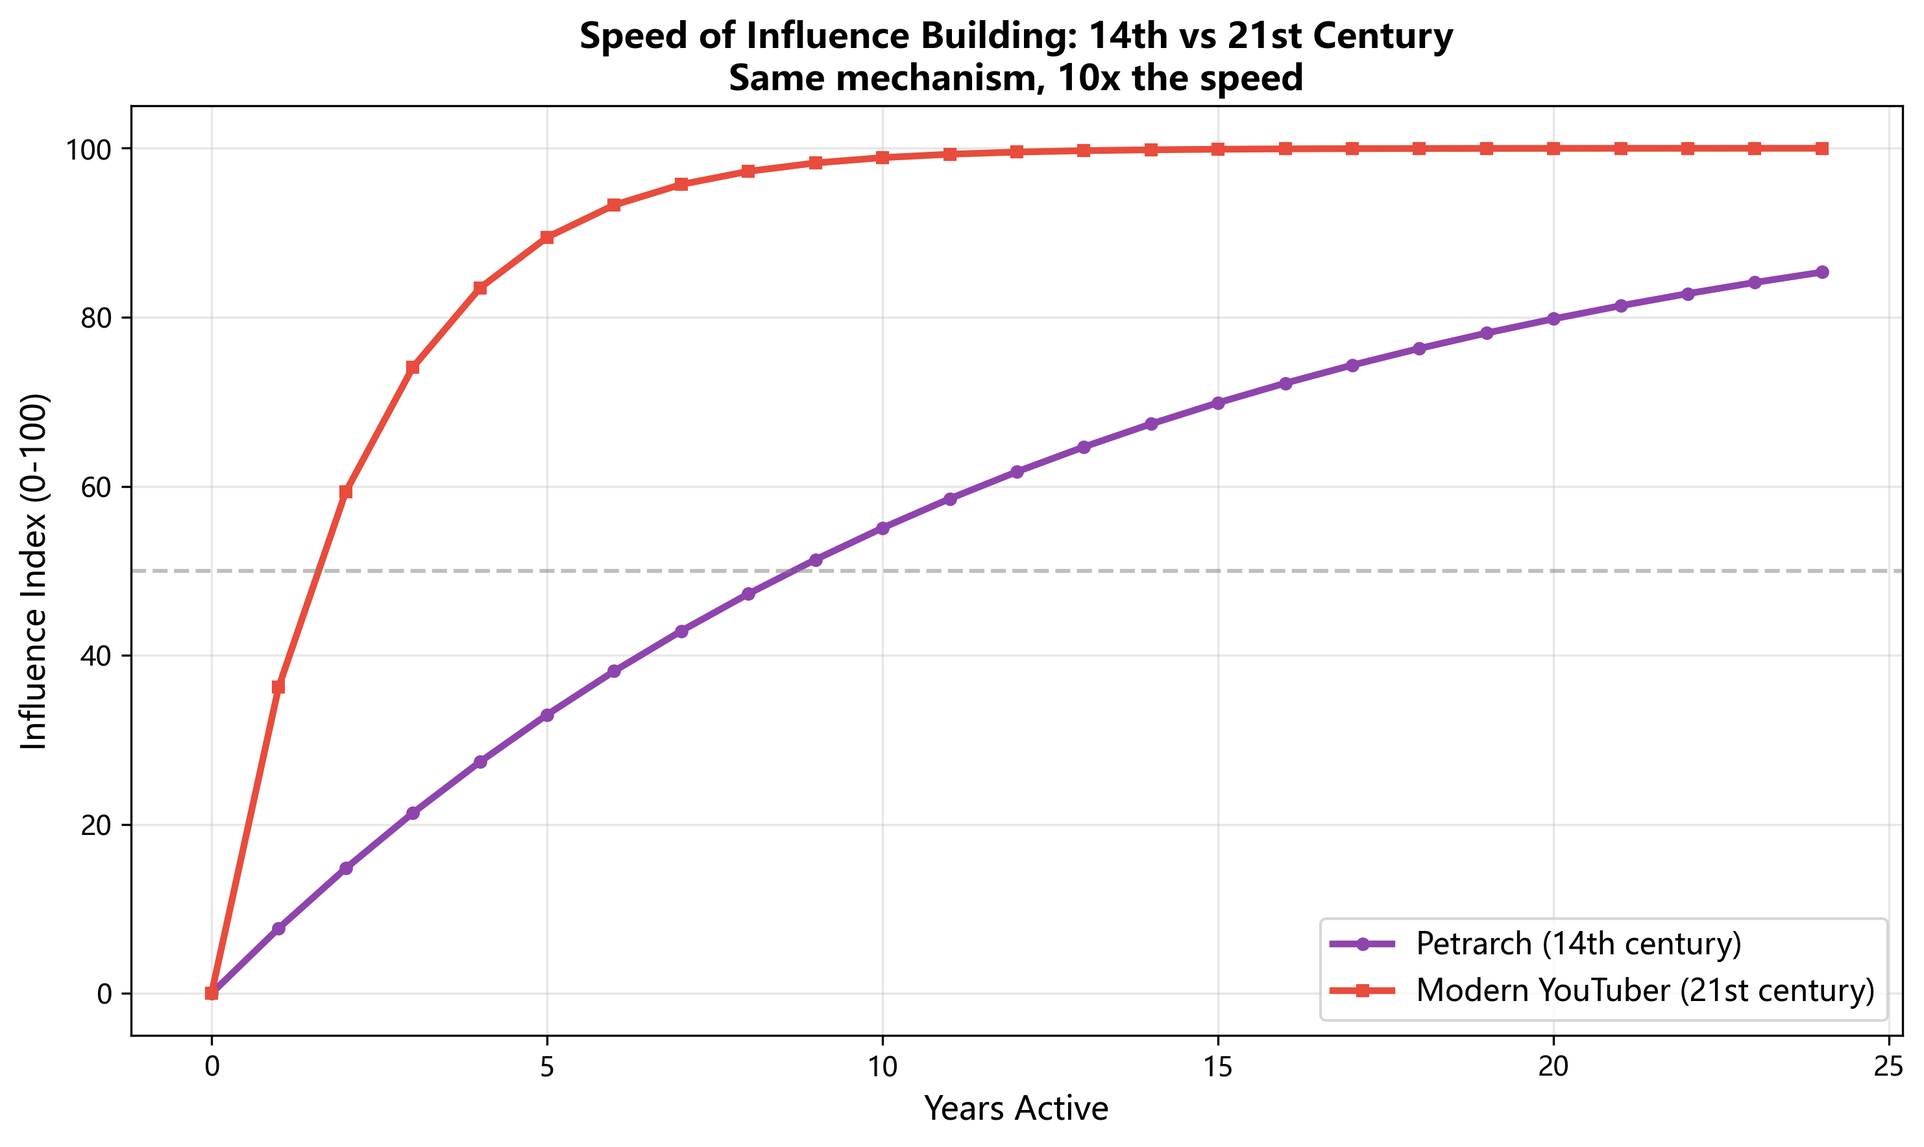
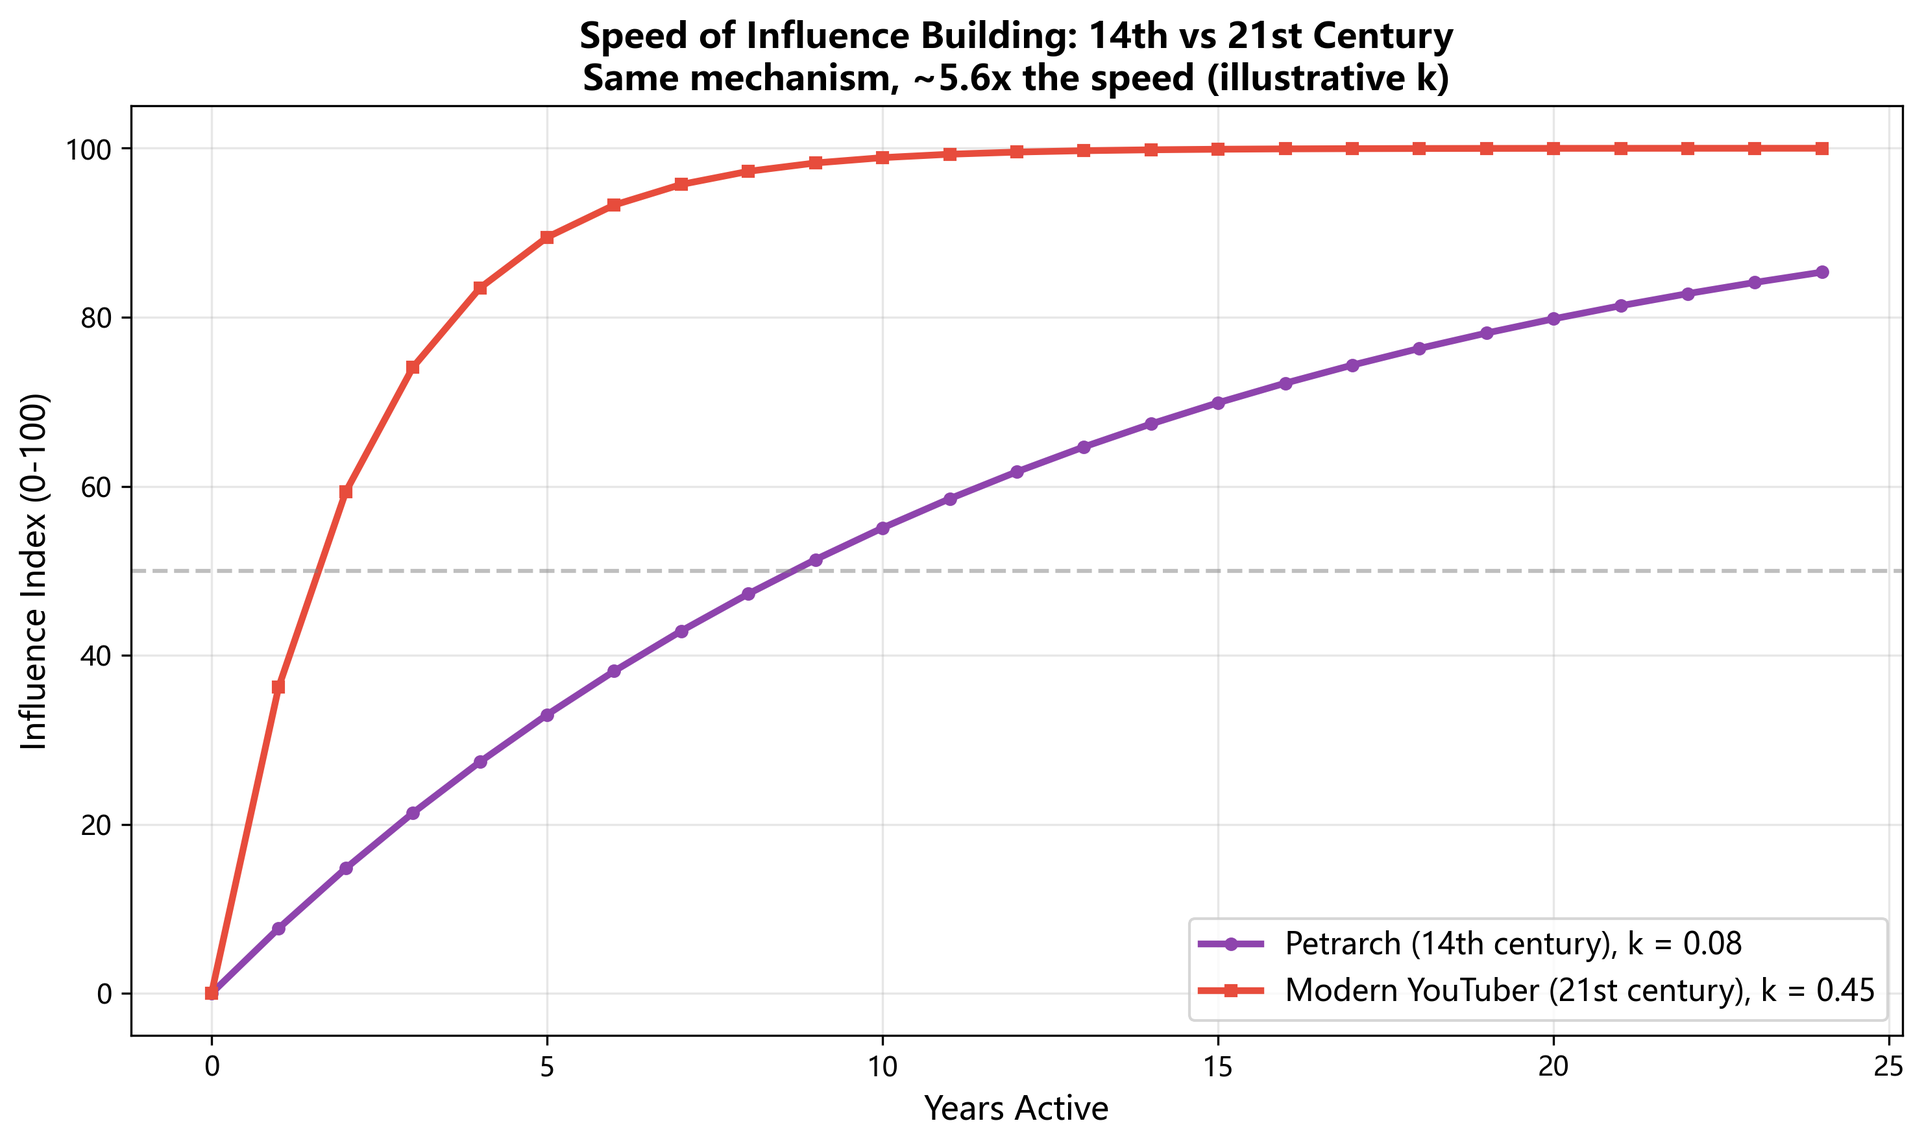
Fact-check fixes: Revolution of Ideas article 01
Label the hand-set inputs of the humanism vs personal-brand script as
illustrative (data notes in README), align printed text with the
fact-checked article, regenerate charts.

Changed region(s): [[0.6206, 0.8088, 0.9929, 0.871], [0.3103, 0.0622, 0.7447, 0.0933]]

diff --git a/series-05-revolution-of-ideas/article-01-humanism-vs-personal-brand/humanism_vs_branding_analysis.py b/series-05-revolution-of-ideas/article-01-humanism-vs-personal-brand/humanism_vs_branding_analysis.py
@@ -5,6 +5,12 @@ Free Version — 5 Models (Basic Analysis)
 GitHub: Code-and-Cogito/code-cogito-public
 License: MIT
 
+DATA NOTE: All inputs in this script are illustrative (hand-set or synthetic);
+nothing here is historical data. The network, the keyword-frequency index, the
+influence-curve constants, the book-cost series and the random samples are
+numbers chosen to demonstrate each method, not measurements. Read every output
+as "what this toy model would show", not as a finding about history.
+
 Requirements: pip install networkx matplotlib numpy
 """
 
@@ -17,12 +23,20 @@ plt.rcParams['axes.unicode_minus'] = False
 
 
 # ============================================================
-# MODEL 1: Humanist Intellectual Network Analysis
+# MODEL 1: Humanist Intellectual Network Analysis (illustrative network)
 # ============================================================
 print("=" * 65)
-print("MODEL 1: Humanist Network Analysis")
+print("MODEL 1: Humanist Network Analysis (illustrative network)")
 print("=" * 65)
 
+# NOTE: This is an illustrative toy network, not a historical record.
+# The nodes, edges, edge weights and "letters" counts below are hand-set rough
+# numbers. Some edges join people who never lived at the same time (for
+# example Ficino and Salutati, or Erasmus and Bruni), so the results say
+# "if the network looked like this ...", not what history was.
+# For scale: the standard edition of Erasmus's correspondence counts
+# 3,141 letters, sent and received (see the article's reference list:
+# Collected Works of Erasmus, vol. 21, University of Toronto Press).
 humanists = {
     'Erasmus': {'era': 'late', 'letters': 1800, 'country': 'Netherlands'},
     'Petrarch': {'era': 'early', 'letters': 500, 'country': 'Italy'},
@@ -34,6 +48,7 @@ humanists = {
     'More': {'era': 'late', 'letters': 280, 'country': 'England'},
 }
 
+# (person A, person B, hand-set tie strength 1-10)
 connections = [
     ('Erasmus', 'More', 9), ('Erasmus', 'Ficino', 5),
     ('Erasmus', 'Pico', 3), ('Erasmus', 'Bruni', 4),
@@ -49,15 +64,24 @@ for name, attrs in humanists.items():
     G.add_node(name, **attrs)
 G.add_weighted_edges_from(connections)
 
+# nx.betweenness_centrality is unweighted by default (edge weights are ignored)
 betweenness = nx.betweenness_centrality(G)
 degree = nx.degree_centrality(G)
 
 print(f"\nNodes: {G.number_of_nodes()}, Edges: {G.number_of_edges()}")
 print(f"Density: {nx.density(G):.3f}\n")
 
-print("[Betweenness Centrality — Who bridges different groups?]")
+print("[Betweenness Centrality — Who bridges different groups in this toy graph?]")
 for name in sorted(betweenness, key=betweenness.get, reverse=True):
     print(f"  {name:<12}: {betweenness[name]:.3f}")
+
+# Toy-graph check: what happens if the top bridge node is removed?
+bridge = max(betweenness, key=betweenness.get)
+H = G.copy()
+H.remove_node(bridge)
+parts = sorted((sorted(c) for c in nx.connected_components(H)), key=len)
+print(f"\n[Toy-graph check — remove {bridge}]")
+print(f"  Connected groups left: {parts}")
 
 # Visualization
 plt.figure(figsize=(12, 9))
@@ -72,8 +96,9 @@ edge_weights = [G[u][v]['weight'] * 0.4 for u, v in G.edges()]
 nx.draw_networkx_edges(G, pos, width=edge_weights, alpha=0.4, edge_color='gray')
 nx.draw_networkx_labels(G, pos, font_size=11, font_weight='bold')
 
-plt.title('Humanist Intellectual Network (14th-16th Century)\n'
-          'Node size = letters written | Red=Early, Orange=Mid, Blue=Late',
+plt.title('Illustrative Humanist Network (14th-16th Century)\n'
+          'Hand-set nodes, edges and letter counts (not a historical record)\n'
+          'Node size = hand-set letter count | Red=Early, Orange=Mid, Blue=Late',
           fontsize=13, fontweight='bold', pad=20)
 plt.axis('off')
 plt.tight_layout()
@@ -83,12 +108,14 @@ print("\n=> Saved: 01_humanist_network.png")
 
 
 # ============================================================
-# MODEL 2: "Human-Centered" Index
+# MODEL 2: "Human-Centered" Index (illustrative index)
 # ============================================================
 print("\n" + "=" * 65)
-print("MODEL 2: Human-Centered Index")
+print("MODEL 2: Human-Centered Index (illustrative index)")
 print("=" * 65)
 
+# NOTE: These keyword frequencies are hand-typed illustrative numbers.
+# No text corpus was analysed; the ratios are plain arithmetic on these inputs.
 periods = ['1200-1300', '1300-1400', '1400-1500', '1500-1600']
 god_freq = [85, 72, 48, 31]
 human_freq = [12, 25, 52, 71]
@@ -101,9 +128,9 @@ bars = ax.bar(x, ratio, 0.55, color=colors, alpha=0.85, edgecolor='black', linew
 ax.axhline(y=1.0, color='red', linestyle='--', linewidth=2, label='Parity (Human = God)')
 ax.set_xticks(x)
 ax.set_xticklabels(periods, fontsize=11)
-ax.set_ylabel('Human / God keyword ratio', fontsize=12)
+ax.set_ylabel('Human / God keyword ratio (illustrative)', fontsize=12)
 ax.set_title('"Human-Centered Index" — When Human Surpasses God\n'
-             'Based on text corpus keyword frequency analysis',
+             'Illustrative index (hand-set frequencies, no corpus)',
              fontsize=13, fontweight='bold')
 ax.legend(fontsize=11)
 ax.grid(axis='y', alpha=0.3)
@@ -113,33 +140,44 @@ plt.tight_layout()
 plt.savefig('02_human_centered_index.png', dpi=300, bbox_inches='tight')
 plt.close()
 
+print("  (hand-set keyword frequencies, no corpus was analysed)")
 for p, r in zip(periods, ratio):
     status = "GOD > Human" if r < 1 else "HUMAN > God"
     print(f"  {p:<15}: {r:.2f}  ({status})")
-print("\n=> Crossover at ~1400-1500. Saved: 02_human_centered_index.png")
+print("\n=> Crossover at ~1400-1500 in these illustrative numbers. "
+      "Saved: 02_human_centered_index.png")
 
 
 # ============================================================
-# MODEL 3: Influence Building Speed Comparison
+# MODEL 3: Influence Building Speed Comparison (illustrative curves)
 # ============================================================
 print("\n" + "=" * 65)
-print("MODEL 3: Influence Building — Petrarch vs YouTuber")
+print("MODEL 3: Influence Building — Petrarch vs YouTuber (illustrative)")
 print("=" * 65)
 
+# influence(t) = 100 * (1 - exp(-k * t)); the rate constants k are assumed by us,
+# not estimated from data. The time to reach 50% influence is ln(2) / k.
+k_petrarch = 0.08
+k_youtuber = 0.45
+
 years = np.arange(0, 25)
-petrarch = 100 * (1 - np.exp(-0.08 * years))
-youtuber = 100 * (1 - np.exp(-0.45 * years))
+petrarch = 100 * (1 - np.exp(-k_petrarch * years))
+youtuber = 100 * (1 - np.exp(-k_youtuber * years))
+
+half_petrarch = np.log(2) / k_petrarch   # about 8.7 years
+half_youtuber = np.log(2) / k_youtuber   # about 1.5 years
+speedup = half_petrarch / half_youtuber  # = k_youtuber / k_petrarch, about 5.6x
 
 fig, ax = plt.subplots(figsize=(10, 6))
 ax.plot(years, petrarch, 'o-', color='#8E44AD', linewidth=2.5, markersize=4,
-        label='Petrarch (14th century)')
+        label=f'Petrarch (14th century), k = {k_petrarch}')
 ax.plot(years, youtuber, 's-', color='#E74C3C', linewidth=2.5, markersize=4,
-        label='Modern YouTuber (21st century)')
+        label=f'Modern YouTuber (21st century), k = {k_youtuber}')
 ax.axhline(y=50, color='gray', linestyle='--', alpha=0.5)
 ax.set_xlabel('Years Active', fontsize=12)
 ax.set_ylabel('Influence Index (0-100)', fontsize=12)
 ax.set_title('Speed of Influence Building: 14th vs 21st Century\n'
-             'Same mechanism, 10x the speed',
+             f'Same mechanism, ~{speedup:.1f}x the speed (illustrative k)',
              fontsize=13, fontweight='bold')
 ax.legend(fontsize=11)
 ax.grid(alpha=0.3)
@@ -147,34 +185,43 @@ plt.tight_layout()
 plt.savefig('03_influence_speed.png', dpi=300, bbox_inches='tight')
 plt.close()
 
-print("  Petrarch: ~9 years to 50% influence")
-print("  YouTuber: ~2 years to 50% influence")
-print("  Speedup: ~10x")
+print(f"  Petrarch: ~{half_petrarch:.1f} years to 50% influence (ln2/k, k = {k_petrarch})")
+print(f"  YouTuber: ~{half_youtuber:.1f} years to 50% influence (ln2/k, k = {k_youtuber})")
+print(f"  Speedup: ~{speedup:.1f}x (follows from the assumed k values)")
 print("\n=> Saved: 03_influence_speed.png")
 
 
 # ============================================================
-# MODEL 4: Knowledge Democratization Cost Curve
+# MODEL 4: Knowledge Democratization Cost Curve (illustrative values)
 # ============================================================
 print("\n" + "=" * 65)
-print("MODEL 4: Education Democratization — 600-Year Cost Curve")
+print("MODEL 4: Education Democratization — 600-Year Cost Curve (illustrative)")
 print("=" * 65)
 
-cost_years = [1400, 1455, 1500, 1600, 1800, 1900, 1950, 2000, 2010, 2024]
+# NOTE: book_cost holds hand-set illustrative values (USD per book equivalent),
+# NOT historical prices. For empirical work on how book prices fell after
+# printing arrived, see Dittmar (2011), "Information Technology and Economic
+# Change: The Impact of the Printing Press", Quarterly Journal of Economics
+# 126(3), listed in the article's references.
+# The press is dated c. 1450 (the Gutenberg Bible was finished c. 1454-55).
+# The last value is 0.01 rather than 0 only so the log axis can draw it.
+cost_years = [1400, 1450, 1500, 1600, 1800, 1900, 1950, 2001, 2010, 2024]
 book_cost = [10000, 10000, 1000, 300, 50, 10, 5, 20, 10, 0.01]
 
 fig, ax = plt.subplots(figsize=(10, 6))
 ax.semilogy(cost_years, book_cost, 'o-', color='#E74C3C', linewidth=2.5, markersize=8)
 ax.fill_between(cost_years, book_cost, alpha=0.1, color='#E74C3C')
-ax.annotate('Gutenberg\nPrinting Press', xy=(1455, 10000), fontsize=10,
-            xytext=(1500, 30000), arrowprops=dict(arrowstyle='->', color='black'),
+ax.annotate('Gutenberg\nPrinting Press\n(c. 1450)', xy=(1450, 10000), fontsize=10,
+            xytext=(1530, 1800), arrowprops=dict(arrowstyle='->', color='black'),
             fontweight='bold')
-ax.annotate('Wikipedia\nLaunched', xy=(2000, 20), fontsize=10,
+ax.annotate('Wikipedia\nLaunched (2001)', xy=(2001, 20), fontsize=10,
             xytext=(1920, 200), arrowprops=dict(arrowstyle='->', color='black'),
             fontweight='bold')
 ax.set_xlabel('Year', fontsize=12)
-ax.set_ylabel('Cost per book equivalent (USD, log scale)', fontsize=12)
-ax.set_title('600 Years of Falling Knowledge Access Costs\n$10,000 → $0',
+ax.set_ylabel('Illustrative cost per book equivalent (USD, log scale)', fontsize=12)
+# escape the dollar signs so matplotlib does not treat them as math mode
+ax.set_title('600 Years of Falling Knowledge Access Costs (illustrative values)\n'
+             r'\$10,000 → close to \$0',
              fontsize=13, fontweight='bold')
 ax.grid(alpha=0.3)
 ax.set_xlim(1380, 2040)
@@ -182,19 +229,23 @@ plt.tight_layout()
 plt.savefig('04_knowledge_cost.png', dpi=300, bbox_inches='tight')
 plt.close()
 
-print("  1400: $10,000 (hand-copied manuscript)")
-print("  1500: $1,000 (after printing press)")
-print("  2024: ~$0 (Wikipedia/YouTube)")
+print("  (hand-set illustrative values, not historical prices)")
+print(f"  1400: ${book_cost[0]:,.0f} (hand-copied manuscript, illustrative)")
+print(f"  1500: ${book_cost[2]:,.0f} (after printing press, illustrative)")
+print(f"  2024: ~$0 (hard-coded as ${book_cost[-1]} for the log axis; Wikipedia/YouTube)")
 print("\n=> Saved: 04_knowledge_cost.png")
 
 
 # ============================================================
-# MODEL 5: "Be Yourself" Inequality Paradox (Gini Coefficient)
+# MODEL 5: "Be Yourself" Inequality Paradox (Gini Coefficient, simulated)
 # ============================================================
 print("\n" + "=" * 65)
-print("MODEL 5: The 'Be Yourself' Paradox — Influence Inequality")
+print("MODEL 5: The 'Be Yourself' Paradox — Influence Inequality (simulated)")
 print("=" * 65)
 
+# NOTE: Simulated distributions. The samples are random draws (fixed seed 42)
+# from exponential mixtures whose scales we chose; they are not measured
+# influence data, so the Gini values describe the simulation only.
 np.random.seed(42)
 
 renaissance = np.concatenate([
@@ -229,15 +280,15 @@ fig, ax = plt.subplots(figsize=(10, 7))
 rl = lorenz(renaissance)
 ml = lorenz(modern)
 ax.plot(np.linspace(0, 1, len(rl)), rl, color='#8E44AD', linewidth=2.5,
-        label=f'Renaissance (Gini={gini_r:.3f})')
+        label=f'Simulated "Renaissance" (n={len(renaissance)}, Gini={gini_r:.3f})')
 ax.plot(np.linspace(0, 1, len(ml)), ml, color='#E74C3C', linewidth=2.5,
-        label=f'Modern Creator Economy (Gini={gini_m:.3f})')
+        label=f'Simulated "modern creator economy" (n={len(modern):,}, Gini={gini_m:.3f})')
 ax.plot([0, 1], [0, 1], 'k--', alpha=0.5, label='Perfect equality')
 ax.fill_between(np.linspace(0, 1, len(ml)), ml, np.linspace(0, 1, len(ml)),
                 alpha=0.1, color='#E74C3C')
 ax.set_xlabel('Cumulative % of population', fontsize=12)
 ax.set_ylabel('Cumulative % of influence', fontsize=12)
-ax.set_title('Lorenz Curve: Influence Inequality\n'
+ax.set_title('Lorenz Curve: Influence Inequality (simulated distributions)\n'
              'More people speak, fewer are heard',
              fontsize=13, fontweight='bold')
 ax.legend(fontsize=11)
@@ -246,6 +297,8 @@ plt.tight_layout()
 plt.savefig('05_influence_inequality.png', dpi=300, bbox_inches='tight')
 plt.close()
 
+print(f"  Simulated Renaissance: {len(renaissance)} participants")
+print(f"  Simulated modern creators: {len(modern):,} participants")
 print(f"  Renaissance Gini: {gini_r:.3f}")
 print(f"  Modern Gini: {gini_m:.3f}")
 print(f"  Inequality increase: {((gini_m - gini_r) / gini_r * 100):.1f}%")
@@ -254,6 +307,6 @@ print("\n=> Saved: 05_influence_inequality.png")
 
 # ============================================================
 print("\n" + "=" * 65)
-print("ALL 5 MODELS COMPLETE")
+print("ALL 5 MODELS COMPLETE (all inputs illustrative or simulated)")
 print("Output files: 01-05_*.png")
 print("=" * 65)

diff --git a/series-05-revolution-of-ideas/article-01-humanism-vs-personal-brand/README.md b/series-05-revolution-of-ideas/article-01-humanism-vs-personal-brand/README.md
@@ -2,7 +2,7 @@
 
 **Pico della Mirandola (1486) vs YouTuber (2024): the quest for individual identity, 500 years apart.**
 
-Using Python to analyze humanist networks, track the human-centered index over centuries, measure influence propagation speed, and compare knowledge access costs then and now.
+Five small, illustrative Python models that compare the Renaissance with today's creator economy: a hand-set humanist network, a keyword-frequency index, influence-building curves, a book-cost curve and a simulated influence-inequality comparison. They are built to show how each method works, not to report historical measurements (see [Data Notes](#data-notes)).
 
 ## Quick Start
 
@@ -11,13 +11,39 @@ pip install numpy matplotlib networkx
 python humanism_vs_branding_analysis.py
 ```
 
+The script prints the model outputs and writes the five PNG charts below into the current folder (re-running it overwrites the files in this repository).
+
 ## Charts
 
-- `01_humanist_network.png` — Renaissance humanist connection network
-- `02_human_centered_index.png` — Human-centered index: 1400 to 2024
-- `03_influence_speed.png` — Influence propagation speed comparison
-- `04_knowledge_cost.png` — Knowledge access cost over time
-- `05_influence_inequality.png` — Influence inequality: then vs now
+- `01_humanist_network.png` — Illustrative humanist network (hand-set nodes and edges)
+- `02_human_centered_index.png` — Illustrative human-centered index: 1200 to 1600 (hand-set frequencies)
+- `03_influence_speed.png` — Illustrative influence-building curves: Petrarch vs a YouTuber
+- `04_knowledge_cost.png` — Knowledge access cost over time (illustrative values)
+- `05_influence_inequality.png` — Influence inequality, simulated: then vs now
+
+## What the Script Prints
+
+Key outputs, exactly as the script prints them:
+
+| Model | Output |
+|-------|--------|
+| 1. Network | 8 nodes, 13 edges; highest betweenness centrality: Salutati 0.476 (next: Bruni and Ficino, 0.214). Without Salutati, Petrarch and Boccaccio are cut off from the other five. |
+| 2. Index | Human / God ratio 0.14, 0.35, 1.08, 2.29 for 1200-1300 to 1500-1600 |
+| 3. Influence curves | ~8.7 years vs ~1.5 years to 50% influence, ~5.6x (computed as ln 2 / k from the assumed k = 0.08 and k = 0.45) |
+| 4. Cost curve | 1400: $10,000, 1500: $1,000, 2024: ~$0 (hard-coded illustrative values) |
+| 5. Inequality | Gini 0.840 (68 simulated participants) vs 0.985 (7,555 simulated participants) |
+
+## Data Notes
+
+Every input in this script is illustrative (hand-set or synthetic). Nothing here is historical data.
+
+- **Model 1:** the 8-person network, its 13 edges, tie strengths and "letters" counts are hand-set rough numbers. Some edges join people who never lived at the same time (for example Ficino and Salutati, or Erasmus and Bruni). The betweenness values are properties of this toy graph, not of the historical network. For scale, the standard edition of Erasmus's correspondence counts 3,141 letters, sent and received; the script's rough value of 1,800 is only used for node size.
+- **Model 2:** the God/Human keyword frequencies are hand-typed numbers. No text corpus is analysed.
+- **Model 3:** the curves use assumed rate constants (k = 0.08 and k = 0.45). The printed half-times and the ~5.6x ratio follow directly from those constants.
+- **Model 4:** the cost series is hard-coded and illustrative, not a record of historical prices (the last value is 0.01 instead of 0 only so the log axis can show it).
+- **Model 5:** the two distributions are random samples drawn with a fixed seed (42) from distributions we chose. The Gini values describe this simulation, not measured influence.
+
+The Deep Dive Pack builds on the same illustrative approach: a 20-scholar, 36-edge network (betweenness and PageRank), a logistic S-curve fit, a five-scholar radar chart and a simulated Erasmus letter-volume series, with static matplotlib charts (no interactive charts, no exercises).
 
 ## Read the Full Article
 
@@ -27,9 +53,9 @@ python humanism_vs_branding_analysis.py
 
 ## Want More?
 
-The [Deep Dive Pack](https://codecogito.gumroad.com/l/revolution-of-ideas-01?utm_source=github&utm_medium=readme&utm_campaign=article_pack&utm_content=revolution-of-ideas-01) for this article includes the complete code, the data file, Jupyter Notebook, and a PDF cheatsheet.
+The [Deep Dive Pack](https://codecogito.gumroad.com/l/revolution-of-ideas-01?utm_source=github&utm_medium=readme&utm_campaign=article_pack&utm_content=revolution-of-ideas-01) for this article includes the complete code, the data file (an illustrative dataset), Jupyter Notebook, and a PDF cheatsheet.
 
-New to this kind of analysis? The free [Starter Notebook](https://codecogito.gumroad.com/l/starter-notebook?utm_source=github&utm_medium=readme&utm_campaign=starter&utm_content=revolution-of-ideas-01) takes one real dataset (Maddison Project GDP, 1500–2022) from download to three figures in about 30 minutes.
+New to this kind of analysis? The free [Starter Notebook](https://codecogito.gumroad.com/l/starter-notebook?utm_source=github&utm_medium=readme&utm_campaign=starter&utm_content=revolution-of-ideas-01) takes one real dataset (Maddison Project GDP, 1500–2022) from download to three figures in about 30 minutes, in English, Traditional Chinese and Japanese.
 
 ---
 

diff --git a/series-05-revolution-of-ideas/README.md b/series-05-revolution-of-ideas/README.md
@@ -10,9 +10,11 @@ Using Python to draw parallels between Renaissance intellectual revolutions and 
 | 02 | Printing Revolution vs Social Media Explosion | printing_vs_social_analysis.py | [Read](https://code-cogito.com/en/thought-revolution-02-en/) |
 | 03 | Reformation vs Decentralization Movement | reformation_vs_decentralization_analysis.py | [Read](https://code-cogito.com/en/thought-revolution-03-en/) |
 
+Article 01's script runs on illustrative inputs: see [its Data Notes](./article-01-humanism-vs-personal-brand/README.md#data-notes).
+
 ## About This Series
 
-3 articles comparing Renaissance-era intellectual revolutions with their modern equivalents: Pico della Mirandola vs YouTubers, Gutenberg vs Zuckerberg, Martin Luther vs Satoshi Nakamoto. Each article includes Python code for network analysis, information diffusion modeling, and historical data visualization.
+3 articles comparing Renaissance-era intellectual revolutions with their modern equivalents: Pico della Mirandola vs YouTubers, Gutenberg vs Zuckerberg, Martin Luther vs Satoshi Nakamoto. Each article includes Python code for network analysis, information diffusion modeling, and data visualization.
 
 ## Quick Start
 
